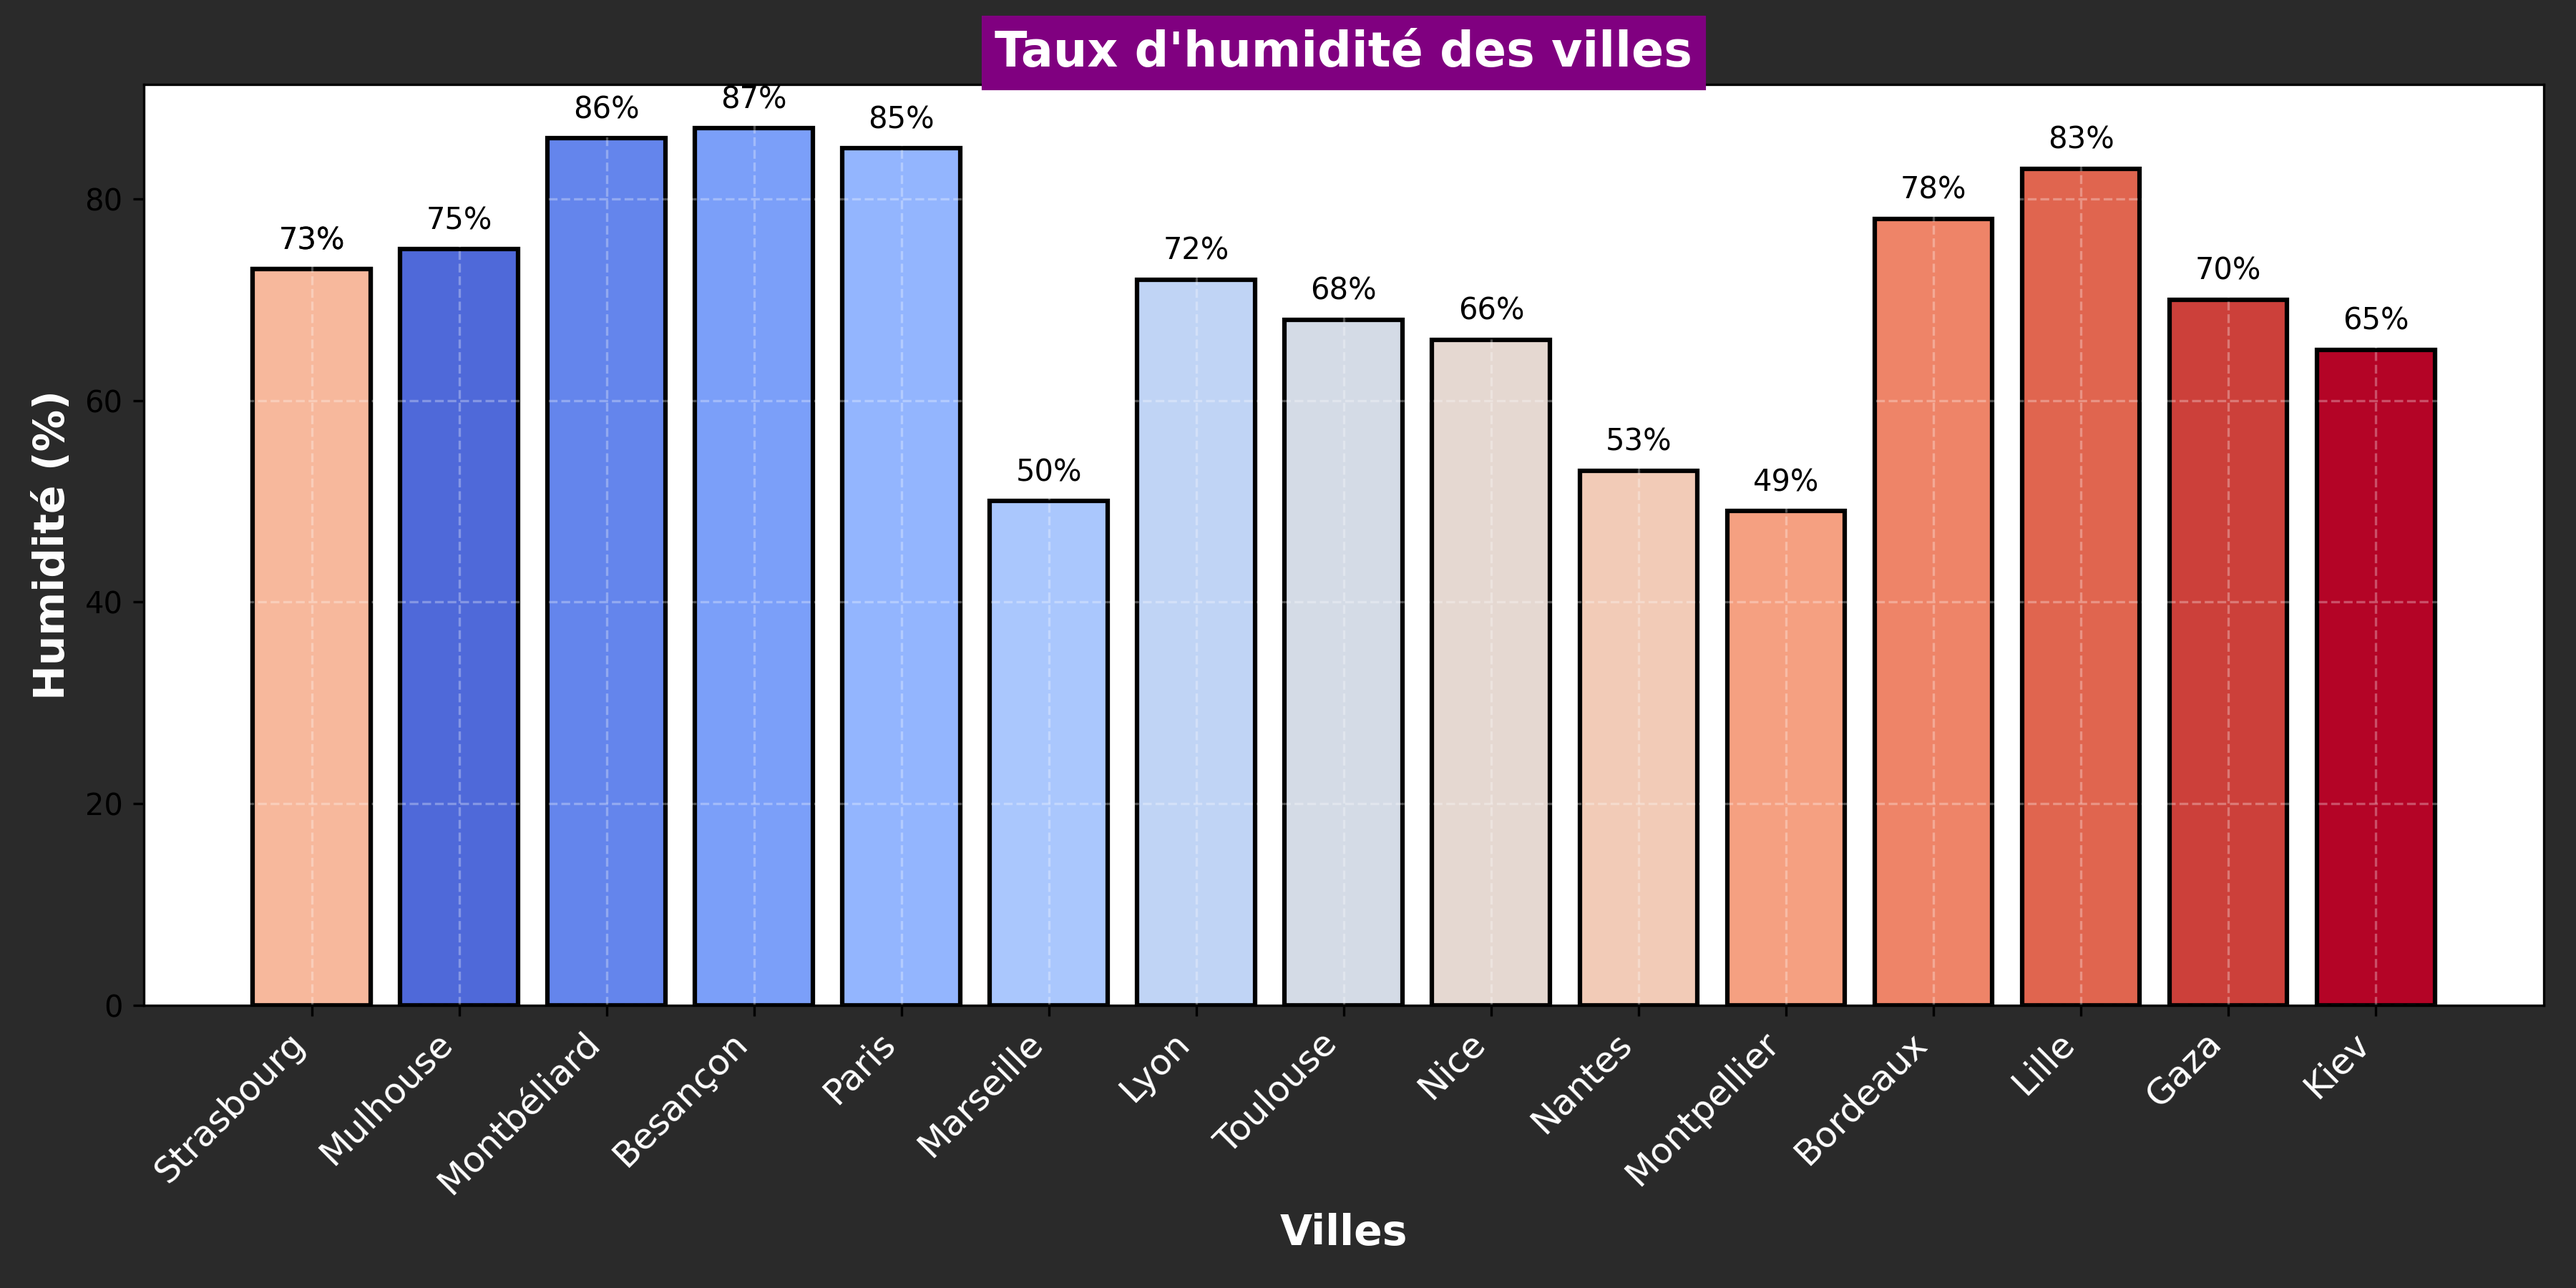
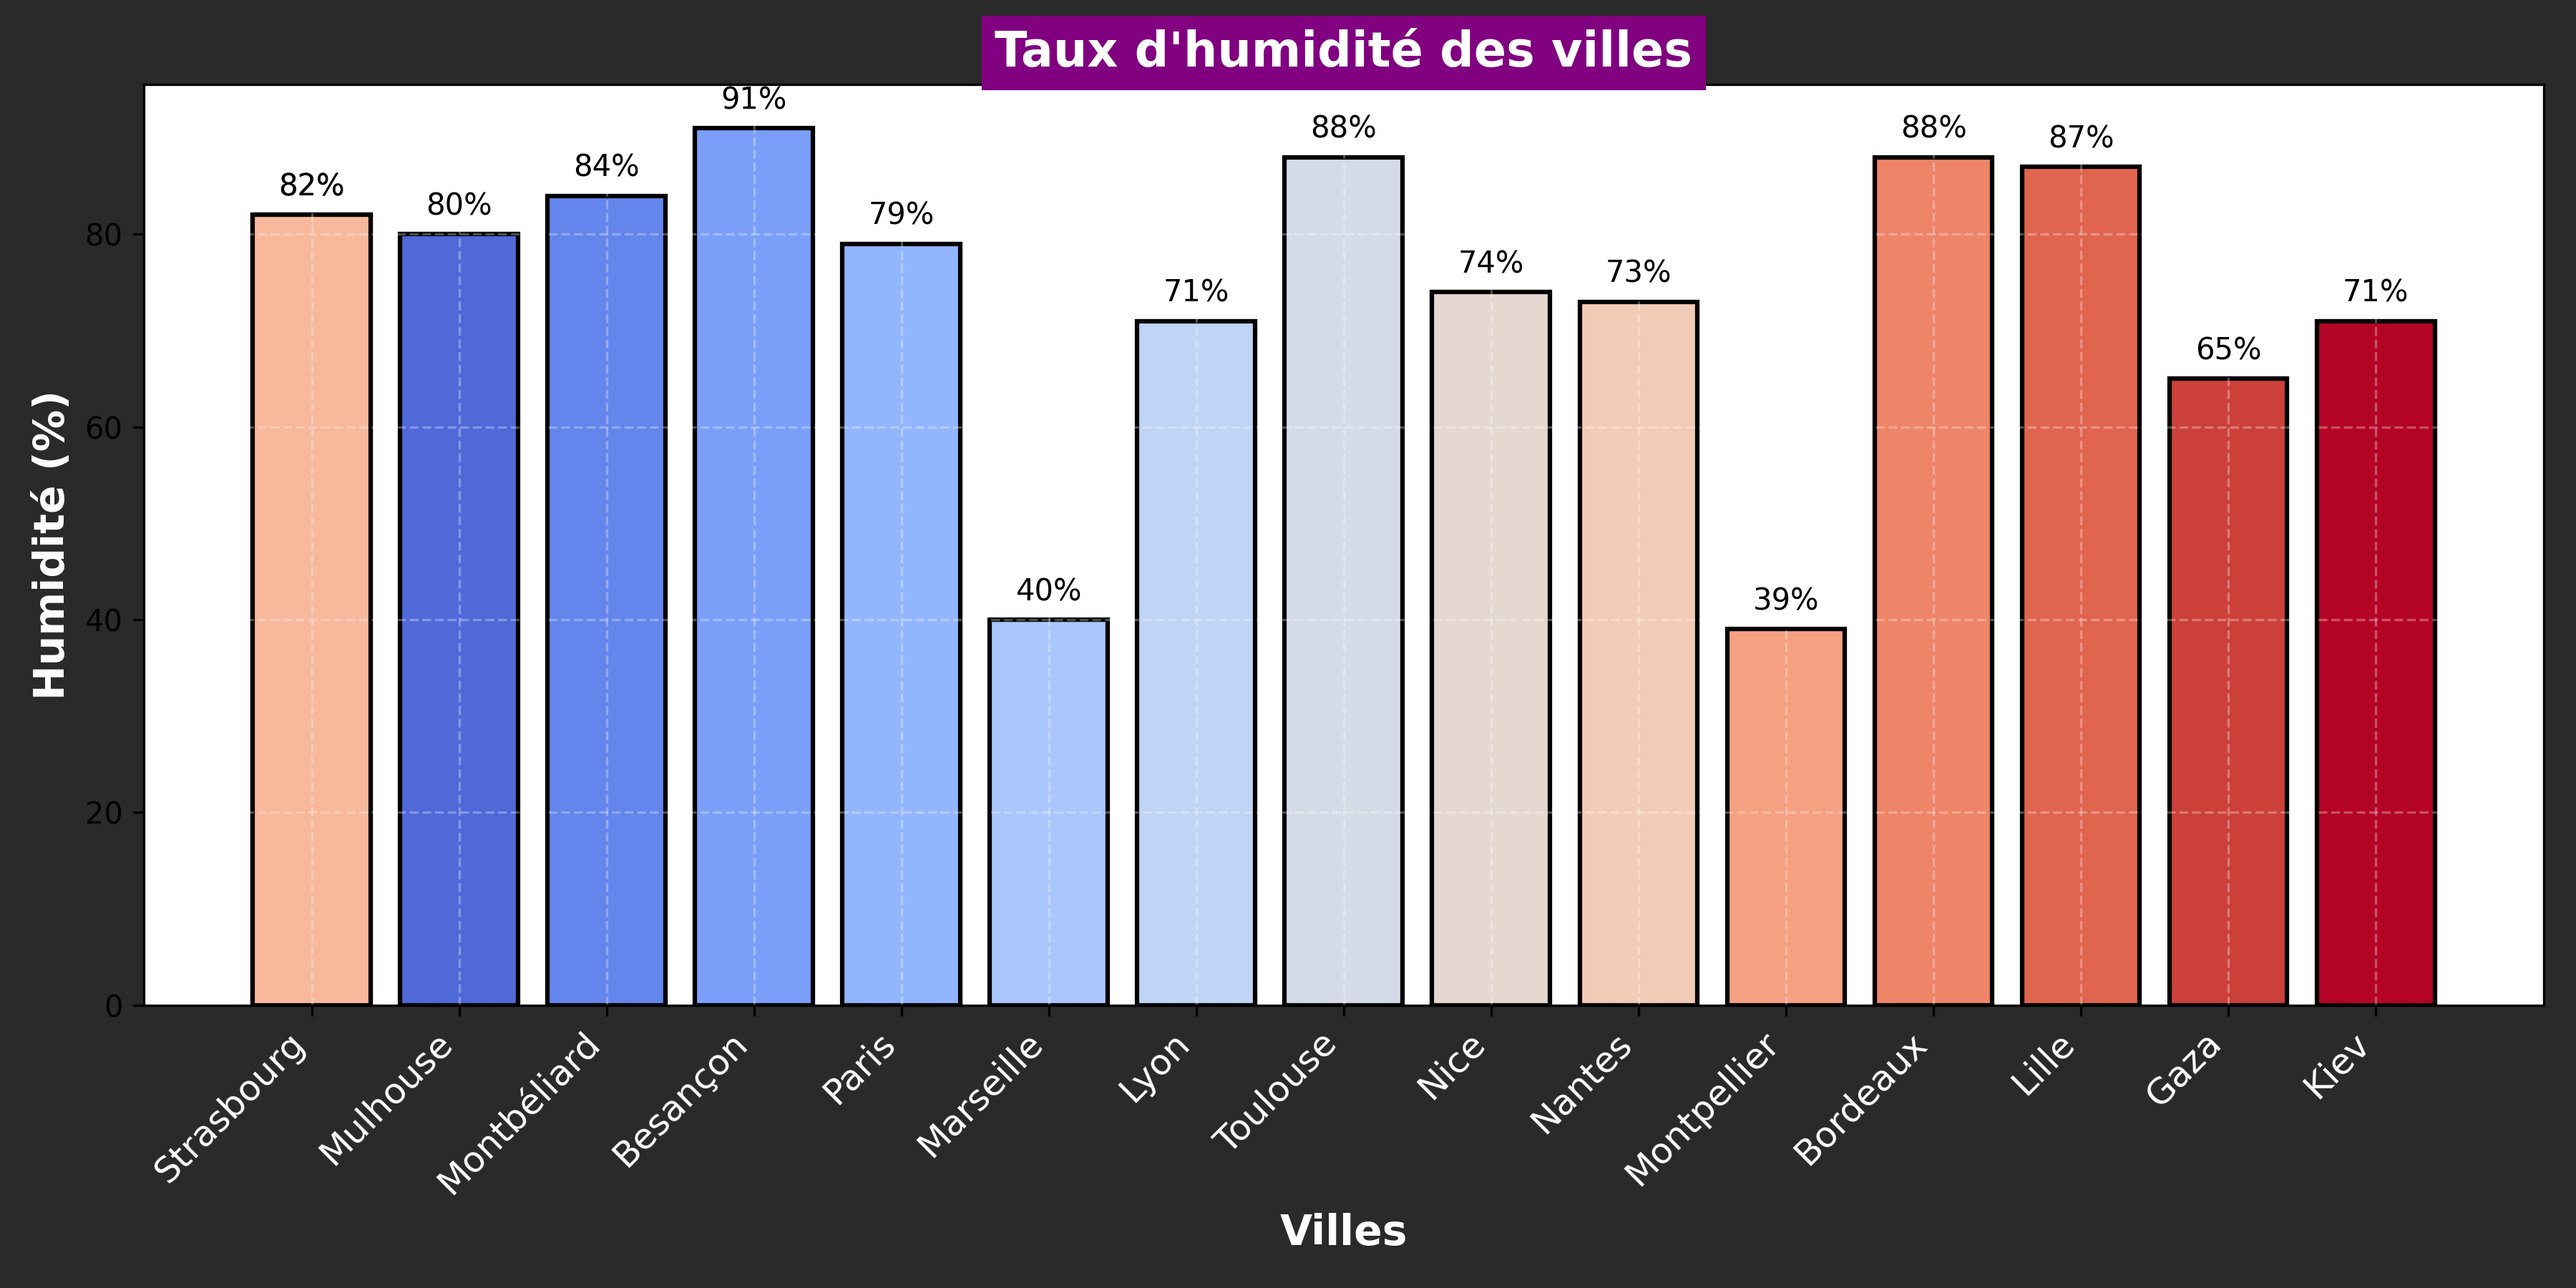
Mise à jour de la météo et ajout du graphique d'humidité

diff --git a/README.md b/README.md
@@ -24,103 +24,103 @@ Ce repo contient plusieurs workflows GitHub Actions :
 ## Météo actuelle :
 ## Météo des grandes villes + Gaza et Kiev 🌍
 
-🕒 Mise à jour : 16/08/2025 08:17:16
+🕒 Mise à jour : 17/08/2025 08:17:54
 
 ### 🌍 Strasbourg ☀
 **Conditions :** ciel dégagé
-**Température :** 21°C
-**Humidité :** 73%
-**Vent :** 2.57 m/s
+**Température :** 16.57°C
+**Humidité :** 82%
+**Vent :** 4.3 m/s
 
-### 🌍 Mulhouse ☀
-**Conditions :** ciel dégagé
-**Température :** 21.69°C
-**Humidité :** 75%
-**Vent :** 1.34 m/s
+### 🌍 Mulhouse 🌥
+**Conditions :** nuageux
+**Température :** 17.05°C
+**Humidité :** 80%
+**Vent :** 2.57 m/s
 
 ### 🌍 Montbéliard ☀
 **Conditions :** ciel dégagé
-**Température :** 23.32°C
-**Humidité :** 86%
-**Vent :** 1.31 m/s
+**Température :** 18.32°C
+**Humidité :** 84%
+**Vent :** 3.97 m/s
 
 ### 🌍 Besançon ☀
 **Conditions :** ciel dégagé
-**Température :** 20.78°C
-**Humidité :** 87%
-**Vent :** 0.31 m/s
+**Température :** 15.74°C
+**Humidité :** 91%
+**Vent :** 2.16 m/s
 
 ### 🌍 Paris ☀
 **Conditions :** ciel dégagé
-**Température :** 19.21°C
-**Humidité :** 85%
-**Vent :** 4.63 m/s
+**Température :** 17.24°C
+**Humidité :** 79%
+**Vent :** 5.14 m/s
 
 ### 🌍 Marseille ☀
 **Conditions :** ciel dégagé
-**Température :** 24.18°C
-**Humidité :** 50%
-**Vent :** 0.89 m/s
+**Température :** 23.62°C
+**Humidité :** 40%
+**Vent :** 2.82 m/s
 
 ### 🌍 Lyon ☀
 **Conditions :** ciel dégagé
-**Température :** 21.68°C
-**Humidité :** 72%
-**Vent :** 1.18 m/s
+**Température :** 19.19°C
+**Humidité :** 71%
+**Vent :** 1.02 m/s
 
-### 🌍 Toulouse ☀
-**Conditions :** ciel dégagé
-**Température :** 21.99°C
-**Humidité :** 68%
-**Vent :** 1.54 m/s
+### 🌍 Toulouse 🌥
+**Conditions :** couvert
+**Température :** 20.99°C
+**Humidité :** 88%
+**Vent :** 3.6 m/s
 
 ### 🌍 Nice ☀
 **Conditions :** ciel dégagé
-**Température :** 14.91°C
-**Humidité :** 66%
-**Vent :** 2.79 m/s
+**Température :** 13.91°C
+**Humidité :** 74%
+**Vent :** 3.12 m/s
 
 ### 🌍 Nantes ☀
 **Conditions :** ciel dégagé
-**Température :** 22.96°C
-**Humidité :** 53%
+**Température :** 19.96°C
+**Humidité :** 73%
 **Vent :** 4.12 m/s
 
 ### 🌍 Strasbourg ☀
 **Conditions :** ciel dégagé
-**Température :** 21°C
-**Humidité :** 73%
-**Vent :** 2.57 m/s
+**Température :** 16.57°C
+**Humidité :** 82%
+**Vent :** 4.3 m/s
 
 ### 🌍 Montpellier ☀
 **Conditions :** ciel dégagé
 **Température :** 27.5°C
-**Humidité :** 49%
-**Vent :** 3.09 m/s
+**Humidité :** 39%
+**Vent :** 4.63 m/s
 
-### 🌍 Bordeaux ☀
-**Conditions :** ciel dégagé
-**Température :** 22.15°C
-**Humidité :** 78%
-**Vent :** 1.54 m/s
-
-### 🌍 Lille 🌥
+### 🌍 Bordeaux 🌥
 **Conditions :** couvert
-**Température :** 18.93°C
-**Humidité :** 83%
+**Température :** 22.15°C
+**Humidité :** 88%
+**Vent :** 1.03 m/s
+
+### 🌍 Lille ☀
+**Conditions :** ciel dégagé
+**Température :** 13.57°C
+**Humidité :** 87%
 **Vent :** 3.09 m/s
 
-### 🌍 Gaza ☀
-**Conditions :** ciel dégagé
-**Température :** 29.76°C
-**Humidité :** 70%
-**Vent :** 3.97 m/s
+### 🌍 Gaza 🌥
+**Conditions :** nuageux
+**Température :** 28.36°C
+**Humidité :** 65%
+**Vent :** 3.27 m/s
 
 ### 🌍 Kiev ☀
 **Conditions :** ciel dégagé
-**Température :** 20.34°C
-**Humidité :** 65%
-**Vent :** 1.22 m/s
+**Température :** 22.07°C
+**Humidité :** 71%
+**Vent :** 0.45 m/s
 
 <p align='center'><img src='https://raw.githubusercontent.com/khoa083/khoa/main/Khoa_ne/img/Rainbow.gif' width='100%' style='border-radius: 5px; border: 3px solid #39FF14; box-shadow: 0 0 10px #39FF14, 0 0 20px #39FF14;' /></p>
 
